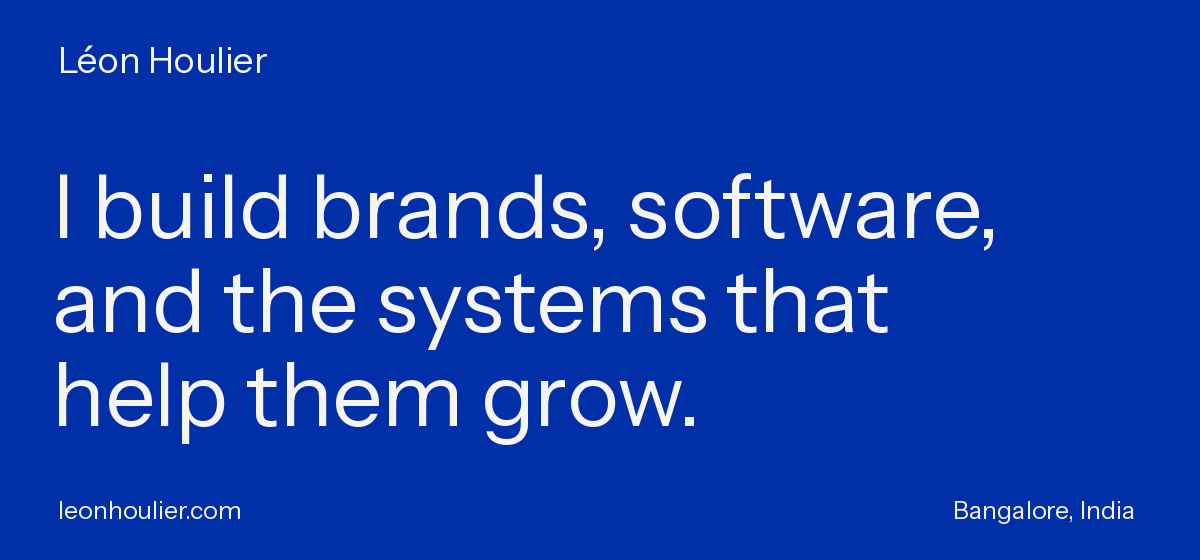
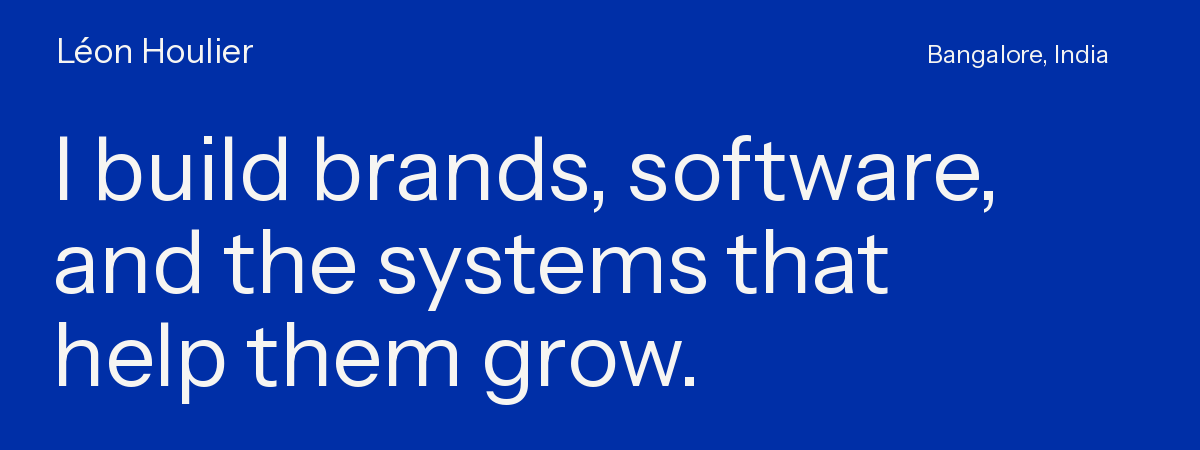
Refine personal header, navigation buttons and project link hierarchy

diff --git a/generate.py b/generate.py
@@ -1,13 +1,19 @@
 from pathlib import Path
 from PIL import Image,ImageDraw,ImageFont
-p=Path(__file__).parent/'assets'
+p=Path(__file__).parent/'assets';(p/'buttons').mkdir(exist_ok=True)
 f=lambda n:ImageFont.truetype(str(p/'instrument-sans-regular.ttf'),n)
-im=Image.new('RGB',(1200,560),'#002FA7');d=ImageDraw.Draw(im)
-d.text((58,38),'Léon Houlier',font=f(36),fill='#F6F5F2')
-for i,line in enumerate(['I build brands, software,','and the systems that','help them grow.']):
- d.text((52,152+i*94),line,font=f(88),fill='#F6F5F2')
-d.text((58,494),'leonhoulier.com',font=f(25),fill='#F6F5F2')
-d.text((953,494),'Bangalore, India',font=f(25),fill='#F6F5F2')
+blue='#002FA7';paper='#F6F5F2';ink='#08090B'
+im=Image.new('RGB',(1200,450),blue);d=ImageDraw.Draw(im)
+d.text((56,30),'Léon Houlier',font=f(34),fill=paper)
+d.text((927,38),'Bangalore, India',font=f(25),fill=paper)
+for i,line in enumerate(['I build brands, software,','and the systems that','help them grow.']):d.text((52,114+i*93),line,font=f(88),fill=paper)
 im.save(p/'hero.png')
-s=(p/'signature-original.svg').read_text().replace('<g ', '<rect width="1080" height="540" fill="#F6F5F2"/><g ',1)
-(p/'signature.svg').write_text(s)
+buttons=[('website','Visit my website',176,44,True),('projects','Projects',126,44,False),('writing','Writing',110,44,False),('linkedin','LinkedIn',128,44,False),('agency','Explore the agency',196,44,True),('report','Read the report',166,40,False),('contact','Get in touch',154,44,True)]
+for slug,label,w,h,primary in buttons:
+ im=Image.new('RGB',(w*2,h*2),blue if primary else paper);d=ImageDraw.Draw(im)
+ if not primary:d.rectangle((0,0,w*2-1,h*2-1),outline='#B9BEC7',width=2)
+ c=paper if primary else ink
+ d.text((24,(h*2-31)/2-4),label,font=f(29),fill=c)
+ # Consistent external arrow, independent of font glyph support.
+ x=w*2-32;y=h-7;d.line((x-8,y+14,x+6,y),fill=c,width=2);d.line((x-5,y,x+6,y,x+6,y+11),fill=c,width=2)
+ im.save(p/'buttons'/f'{slug}.png')

diff --git a/README.md b/README.md
@@ -1,47 +1,43 @@
 <a href="https://leonhoulier.com"><img src="assets/hero.png" width="100%" alt="Léon Houlier. I build brands, software, and the systems that help them grow."></a>
 
-<p align="center">
-  <a href="https://leonhoulier.com"><strong>MY WEBSITE ↗</strong></a> &nbsp; / &nbsp;
-  <a href="https://detail-department.com"><strong>THE AGENCY ↗</strong></a> &nbsp; / &nbsp;
-  <a href="https://leonhoulier.com/blog/"><strong>WRITING ↗</strong></a> &nbsp; / &nbsp;
-  <a href="https://www.linkedin.com/in/leonhoulier/"><strong>LINKEDIN ↗</strong></a>
+<p>
+  <a href="https://leonhoulier.com"><img src="assets/buttons/website.png" width="176" height="44" alt="Visit my website"></a>
+  <a href="https://leonhoulier.com/projects/"><img src="assets/buttons/projects.png" width="126" height="44" alt="Projects"></a>
+  <a href="https://leonhoulier.com/blog/"><img src="assets/buttons/writing.png" width="110" height="44" alt="Writing"></a>
+  <a href="https://www.linkedin.com/in/leonhoulier/"><img src="assets/buttons/linkedin.png" width="128" height="44" alt="LinkedIn"></a>
 </p>
 
-## Léon Houlier
-
-I'm Léon. Five years in paid media and adtech at details.ch and Digital Luxury Group. Now in Bangalore, building **[The Detail Department](https://detail-department.com)** and software of my own.
-
-I kept losing track of local servers. That became **Mast**. I wanted AI tools to work with domains, mail and hosting. That's **Infomaniak MCP**. The agency brings the same technical curiosity to campaign operations, measurement and websites for luxury brands.
+Five years in paid media and adtech at details.ch and Digital Luxury Group. Now in Bangalore, building **[The Detail Department](https://detail-department.com)** and software of my own.
 
 ## Selected work
 
 <table>
 <tr>
 <td width="50%" valign="top">
-<h3>01 / Infomaniak MCP</h3>
+<h3><a href="https://infomaniak-mcp.com">Infomaniak MCP</a></h3>
 <p>Domains, mail and hosting, connected to AI tools. Scoped access and explicit approval for changes.</p>
-<p><strong>OPEN SOURCE · UNOFFICIAL</strong></p>
-<p><a href="https://infomaniak-mcp.com">Try it ↗</a> · <a href="https://github.com/leonhoulier/infomaniak-ai">Read the code ↗</a></p>
+<p><sub>Open source · Unofficial</sub></p>
+<p><a href="https://infomaniak-mcp.com">Setup guide ↗</a> · <a href="https://github.com/leonhoulier/infomaniak-ai">Source code ↗</a></p>
 </td>
 <td width="50%" valign="top">
-<h3>02 / Mast</h3>
+<h3><a href="https://usemast.sh">Mast</a></h3>
 <p>Which project owns port 3000? Repositories, ports, branches and CI, in the Mac menu bar.</p>
-<p><strong>MAC APP · PRIVATE SOURCE</strong></p>
-<p><a href="https://usemast.sh">Meet Mast ↗</a> · <a href="https://github.com/leonhoulier/mast-releases">Public releases ↗</a></p>
+<p><sub>Mac app · Private source</sub></p>
+<p><a href="https://usemast.sh">Visit Mast ↗</a> · <a href="https://github.com/leonhoulier/mast-releases">Public releases ↗</a></p>
 </td>
 </tr>
 <tr>
 <td width="50%" valign="top">
-<h3>03 / WHOOP MCP</h3>
+<h3><a href="https://github.com/leonhoulier/whoop-mcp-server">WHOOP MCP</a></h3>
 <p>Recovery, sleep, strain and workout data through an MCP server, with OAuth and token refresh.</p>
-<p><strong>EARLIER PROJECT</strong></p>
+<p><sub>Earlier project</sub></p>
 <p><a href="https://github.com/leonhoulier/whoop-mcp-server">Source &amp; setup ↗</a><br><sub>Initial implementation credited to <a href="https://github.com/ctvidic">ctvidic</a>.</sub></p>
 </td>
 <td width="50%" valign="top">
-<h3>04 / Speed Reader</h3>
+<h3><a href="https://github.com/leonhoulier/speed-reader">Speed Reader</a></h3>
 <p>A Raycast extension. Selected text, clipboard or a browser page, one word at a time.</p>
-<p><strong>RAYCAST · ADJUSTABLE SPEED</strong></p>
-<p><a href="https://github.com/leonhoulier/speed-reader">Read the code ↗</a></p>
+<p><sub>Raycast extension</sub></p>
+<p><a href="https://github.com/leonhoulier/speed-reader">Source code ↗</a></p>
 </td>
 </tr>
 </table>
@@ -55,32 +51,27 @@ I kept losing track of local servers. That became **Mast**. I wanted AI tools to
 
 ## The Detail Department
 
-The execution agency for luxury brands. Campaign operations, measurement, websites and AI implementation. [Explore the agency →](https://detail-department.com)
+The execution agency for luxury brands. Campaign operations, measurement, websites and AI implementation. 
+
+<a href="https://detail-department.com"><img src="assets/buttons/agency.png" width="196" height="44" alt="Explore The Detail Department"></a>
 
 ### Reports from the Department
 
-<table>
-<tr>
-<td width="50%" valign="top">
-<h3>The AI Media Index</h3>
+<h3><a href="https://detail-department.com/ai-media-index">The AI Media Index</a></h3>
 <p>Advertising, design, analytics and automation. What connects to AI, what it can change, and where a person still needs to step in.</p>
-<p><a href="https://detail-department.com/ai-media-index"><strong>Explore the report ↗</strong></a> · <a href="https://github.com/The-Detail-Department/ai-paid-media-tools">Sources ↗</a></p>
-</td>
-<td width="50%" valign="top">
-<h3>The AI CMS Index</h3>
+<p><a href="https://detail-department.com/ai-media-index"><img src="assets/buttons/report.png" width="166" height="40" alt="Read The AI Media Index"></a><br><a href="https://github.com/The-Detail-Department/ai-paid-media-tools">Source catalogue ↗</a></p>
+
+<h3><a href="https://detail-department.com/ai-cms-index">The AI CMS Index</a></h3>
 <p>CMS and commerce platforms for AI-assisted content work. Drafting, editing, publishing, permissions and setup.</p>
-<p><a href="https://detail-department.com/ai-cms-index"><strong>Explore the report ↗</strong></a></p>
-</td>
-</tr>
-</table>
+<p><a href="https://detail-department.com/ai-cms-index"><img src="assets/buttons/report.png" width="166" height="40" alt="Read The AI CMS Index"></a></p>
 
 <sub>Published by The Detail Department. Documentation reviewed unless an entry says otherwise; readiness grades are not proof of tested workflows.</sub>
 
 ## Bangalore, let's build something.
 
-I'm keen to meet frontend and Shopify developers who care about the details: typography, motion, accessibility and fast storefronts. **[Show me something you've made.](mailto:leon@detail-department.com)**
+I'm keen to meet frontend and Shopify developers who care about the details: typography, motion, accessibility and fast storefronts. <a href="mailto:leon@detail-department.com">Show me something you’ve made.</a>
 
-[More projects, writing and the personal story → **leonhoulier.com**](https://leonhoulier.com)
+<p><a href="mailto:leon@detail-department.com"><img src="assets/buttons/contact.png" width="154" height="44" alt="Get in touch with Léon"></a></p>
 
 <p><img src="assets/signature.svg" width="210" alt="Léon’s original handwritten signature"></p>
 
